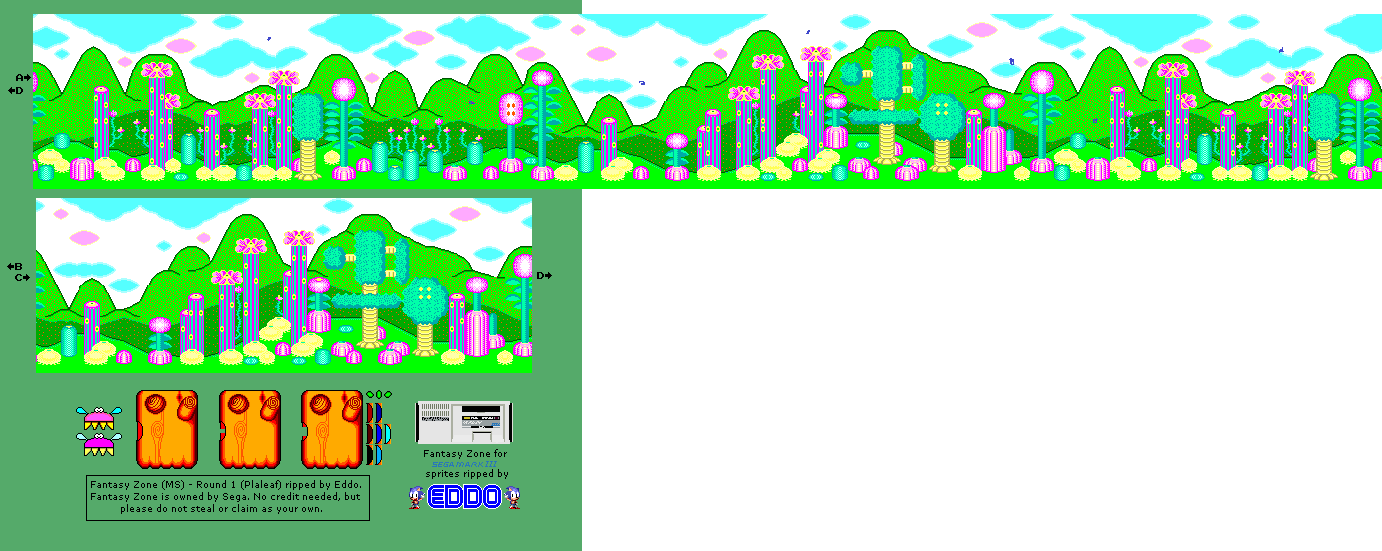
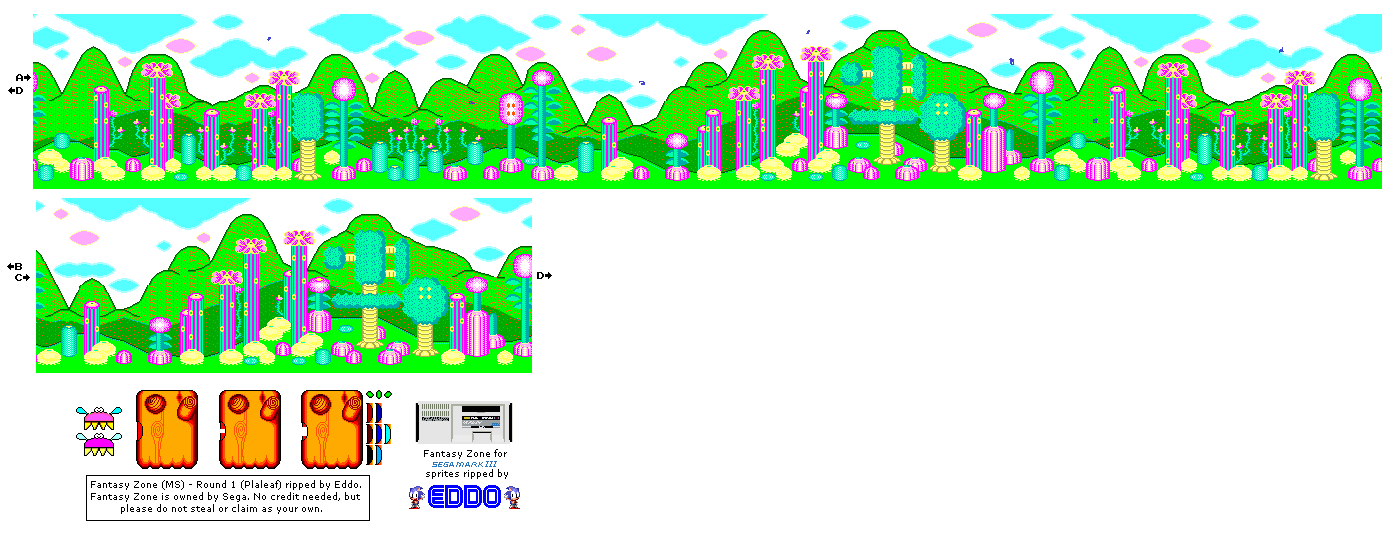
- Background sheet transparent - More work on spawner

Changed region(s): [[0.0, 0.0, 0.4356, 1.0]]

diff --git a/src/Entity/Spawner/Spawner.cpp b/src/Entity/Spawner/Spawner.cpp
@@ -1,18 +1,32 @@
 #include "Spawner.h"
 #include "../Enemy/Kirikiri/Kirikiri.h"
+#include <iostream>
 
 Spawner::Spawner() : Enemy()
 {
 	health = 20;
+	sf::Vector2f spawnerLocs[5] = { { 800, 25 },{ 800, 150 },{ 800, 275 },{ 800, 400 },{ 800, 500 } };
+	position = spawnerLocs[spawnerCount];
 
-	sf::IntRect zone({ 8, 20 }, { 51, 15 });
-	Animation* fly = new Animation(1, 3, zone);
+	texture = new sf::Texture();
+	if (!texture->loadFromFile("../res/Levels/Round 1 wrapped with spawner locs.png"))
+		std::cout << "Fail loading Enemies.png\n";
+	sprite = new sf::Sprite(*texture);
+
+	sf::IntRect zone({ 135, 365 }, { 182, 389 });
 
 	sprite->setTexture(*texture);
-	sprite->setPosition(pos);
+	sprite->setPosition(position);
+
+	std::cout << "Spawner created at " << position.x << ", " << position.y << "\n";
+	addSpawner();
 }
 
-Spawner::~Spawner() {}
+Spawner::~Spawner() 
+{
+	delete texture;
+	delete sprite;
+}
 
 void Spawner::updateHealth(int tick)
 {
@@ -24,10 +38,10 @@ void Spawner::updateHealth(int tick)
 
 void Spawner::spawnEnemy(int tick)
 {
-	Kirikiri kirikiri = Kirikiri(true);
+	Kirikiri kirikiri = new Kirikiri(true);
 	if (tick % spawn_rate == 0 && set_active == true) //every 300 frames, spawn an enemy
 	{
-		kirikiri.spawn(pos);
+		kirikiri.spawn(position);
 	}
 }
 

diff --git a/src/Game/Game.h b/src/Game/Game.h
@@ -9,6 +9,7 @@
 #include "../Entity/Enemy/Snake/Snake.h"
 #include "../Entity/Enemy/Scissors/Scissors.h"
 #include "../Entity/Enemy/Kirikiri/Kirikiri.h"
+#include "../Entity/Spawner/Spawner.h"
 
 
 class Game {
@@ -41,6 +42,7 @@ private:
 	Snake* dummy1 = new Snake(true);
 	Scissors* dummy2 = new Scissors(true);
 	Moocolon* dummy3 = new Moocolon(true);
-	Kirikiri* dummy4 = new Kirikiri(true);
+	//Kirikiri* dummy4 = new Kirikiri(true);
 	Bottaco* dummy5 = new Bottaco(true);
+	Spawner* spawner1 = new Spawner();
 };

diff --git a/src/Entity/Enemy/Enemy.h b/src/Entity/Enemy/Enemy.h
@@ -21,11 +21,14 @@ public:
 	//inherited methods
 	void update(int input) override;
 	void death() override;
-	
+
+	//methods for spawner counting
+	int spawnerCount = 0;
+	void addSpawner();
+
 	//get methods
 	sf::Sprite* getSprite();
 protected:
 	unsigned int tickRate;
 	unsigned int defeatPoints;
-
 };

diff --git a/src/Entity/Spawner/Spawner.h b/src/Entity/Spawner/Spawner.h
@@ -12,7 +12,7 @@ public:
 
 	*/
 
-	void spawnEnemy(int);
+    void spawnEnemy(int);
 	void updateHealth(int); //runs every tick, checks for damage
 	void update();
 	sf::Vector2f position{ 800.f, 25.f };

diff --git a/src/Entity/Enemy/Enemy.cpp b/src/Entity/Enemy/Enemy.cpp
@@ -78,3 +78,8 @@ void Enemy::death()
 	set_visible = false;
 	set_active = false;
 }
+
+void Enemy::addSpawner()
+{
+	spawnerCount++;
+}
